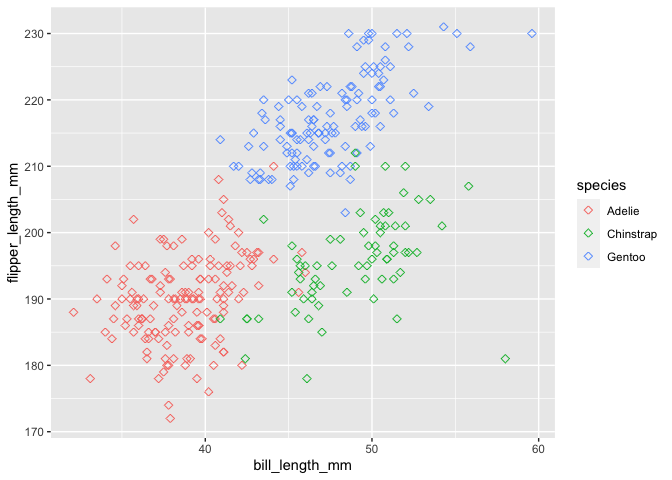
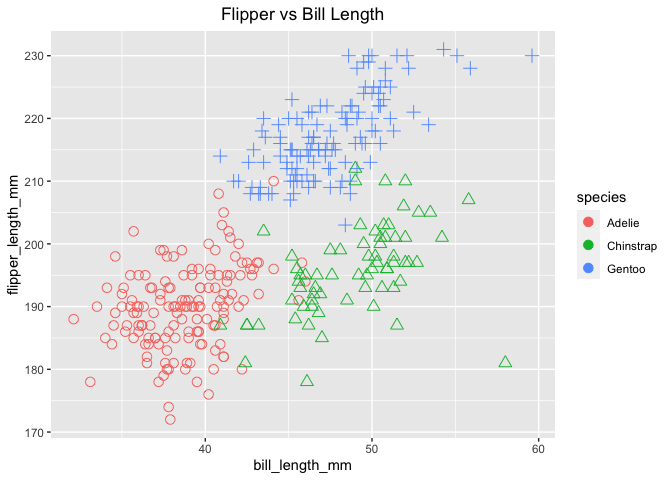
removing dollar sign from my code and using pull.

diff --git a/p8105_hw1_tk2886.md b/p8105_hw1_tk2886.md
@@ -3,7 +3,7 @@ p8105\_hw1\_tk2886
 Tanvir Khan
 2021-09-24
 
-## QUESTION 1
+# QUESTION 1
 
 ``` r
 set.seed(12345)
@@ -103,7 +103,7 @@ and then I may do one additional conversion to numeric by using the
 as.numeric(). This will give me the exact values that was stored in the
 factor vector.
 
-## QUESTION 2
+# QUESTION 2
 
 ``` r
 data("penguins", package = "palmerpenguins")
@@ -136,11 +136,12 @@ data("penguins", package = "palmerpenguins")
     in this data table.
 
 10. The mean of the **flipper length** is *201* and the standard
-    deviation of the flipper lenght is *14*.
+    deviation of the flipper length is *14*.
 
 ``` r
 penguin_scatterplot <- ggplot(penguins, aes(x = bill_length_mm, y = flipper_length_mm, color = species)) +
-  geom_point(size = 2, shape = 23)
+  geom_point(shape = penguins$species, size = 3) +
+  ggtitle("Flipper vs Bill Length") + theme(plot.title = element_text(hjust = 0.5))
 
 penguin_scatterplot
 ```
